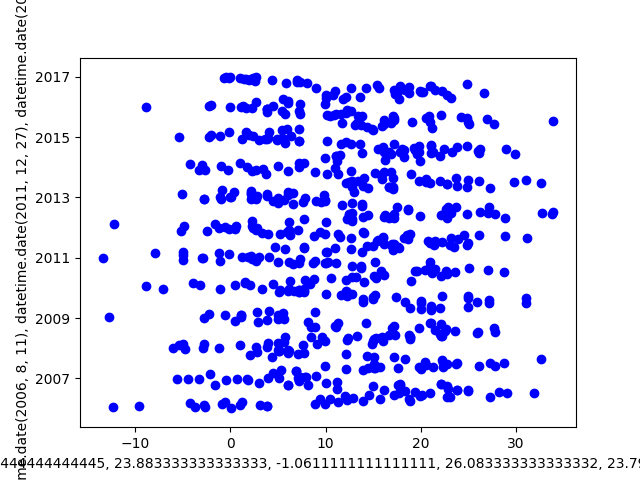
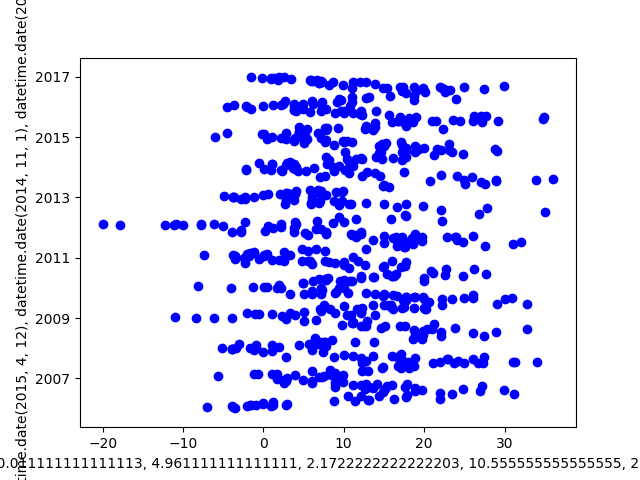
Works better but stil do not work :(

diff --git a/DataMining-Project2/DataMining_Project2.py b/DataMining-Project2/DataMining_Project2.py
@@ -22,13 +22,13 @@ random.shuffle(clusters_color)
 
 # Nice output :)
 def print_point(point, x, y):
-    print("(%.2f, %s)  -> id=%d,  \tid_of_closest_neighbor=%s,\tcluster=%s,\tdensity=%d,\tdistance_to_higher_density_point=%.4f" % \
-        (point[x], point[y], point["id"], str(point["id_of_point_with_higher_density"]), 
+    print("(%.2f, %s)  -> id=%d,  \tid_of_closest_neighbor=%s,\trefed_points=%s,\tcluster=%s,\tdensity=%d,\tdistance_to_higher_density_point=%.4f" % \
+        (point[x], point[y], point["id"], str(point["id_of_point_with_higher_density"]), str(point["refed_points"]), 
          str(point["cluster"]), point["density"], point["distance_to_higher_density_point"]))
 
 # Dinstance between two points
 def distance_to(point_i, point_j, x, y):
-    return math.sqrt((point_i[x] - point_j[x])**2 + (point_i[y] - point_j[y])**2) / 10000000
+    return math.sqrt((point_i[x] - point_j[x])**2 + (point_i[y] - point_j[y])**2) / 5000000
 
 # Function computing density for points
 # Density is computed as a number of points which is closed to current than cutoff_distance
@@ -56,7 +56,8 @@ def set_distance_to_higher_density_point(point_i, points):
         distance = distance_to(point_i, point_j, "Temperature", "Date Int")
         if distance < point_i["distance_to_higher_density_point"]:
             point_i["distance_to_higher_density_point"] = distance
-            point_i["id_of_point_with_higher_density"] = point_j["id"]
+            point_i["id_of_point_with_higher_density"] = int(point_j["id"])
+            point_j["refed_points"].append(point_i["id"])
 
     if point_i["distance_to_higher_density_point"] == float("inf"):
        point_i["distance_to_higher_density_point"] = 0
@@ -69,16 +70,20 @@ def set_distance_to_higher_density_point(point_i, points):
 
     return point_i
 
+def set_refed_points(point_i, points):
+    point_i["refed_points"] = [ p["id"] for p in points if p["id_of_point_with_higher_density"] == point_i["id"] ]
+
+    return point_i
+
 def compleat(point, labels):
     (id, point) = point
     new_point = { labels[i] : elem for i, elem in enumerate(point) if elem != "" }
-    new_point["id"] = id
 
     for key in new_point.keys():
         try:
             new_point[key] = float(new_point[key])
         except: pass
-
+        
     (D, T, Z) = new_point["Formatted Date"].split(" ")
     (year, month, day) = D.split("-")
     (hours, minutes, seconds) = T.split(":")
@@ -87,10 +92,13 @@ def compleat(point, labels):
     new_point["Time"] = new_point["Formated Date"].time()
     new_point["Date Int"] = time.mktime(new_point["Formated Date"].timetuple())
 
+    new_point["refed_points"] = []
     new_point["density"] = None
     new_point["distance_to_higher_density_point"] = None
     new_point["id_of_point_with_higher_density"] = None
     new_point["cluster"] = None
+    
+    new_point["id"] = int(id)
 
     return new_point
     
@@ -131,10 +139,16 @@ def get_and_calculate(sc, n, limit, cutoff_distance):
 
     points_with_distance_to_higher_density_point = points_with_local_density.map(
         lambda point: set_distance_to_higher_density_point(point, list_of_random_points))
+    list_of_points_with_distance_to_higher_density_point = [point for point in points_with_distance_to_higher_density_point.toLocalIterator()]
 
-    print("points with higher density seted")
+    print("points with higher density set")
+
+    points_with_refed_points = points_with_distance_to_higher_density_point.map(
+        lambda point: set_refed_points(point, list_of_points_with_distance_to_higher_density_point))
+
+    print("refed points set")
     
-    return points_with_distance_to_higher_density_point
+    return points_with_refed_points
 
 def plot_of_density_and_distance_to_higher_density_point(points, file_name):
     points = points.collect()
@@ -198,14 +212,33 @@ def assign_points_to_clusters(points):
         point["cluster"] = ref_point["cluster"]
 
         return point
+
+    def set_clusters(center, all_points):
+        for p in center["refed_points"]:
+            print(p, type(p))
+            ref_p = [ p for p in all_points if p["id"] == p ][0]
+            if ref_p["cluster"] == None:
+                ref_p["cluster"] = center["cluster"]
+                set_clusters(ref_p)
+                print(p)
     
-    print(points.filter(lambda point: point["cluster"] == None).count())
+    #print(points.filter(lambda point: point["cluster"] == None).count())
 
-    while None in [point["cluster"] for point in points.collect()]:
-        all_points = points.collect()
-        points = points.map(lambda point: set_cluster(point, all_points))
+    for center in [point for point in points.toLocalIterator() if point["cluster"] != None]:
+        set_clusters(center, points.toLocalIterator())
+    
+    for point in points_with_refed_points.toLocalIterator():
+        print_point(point, "Temperature", "Date Int")
 
-        print(points.filter(lambda point: point["cluster"] == None).count())
+    return points
+
+    #return points
+
+    #while None in [point["cluster"] for point in points.collect()]:
+    #    all_points = points.collect()
+    #    points = points.map(lambda point: set_cluster(point, all_points))
+
+    #    print(points.filter(lambda point: point["cluster"] == None).count())
 
 def assign_points_to_clusters_working(points):
         
@@ -236,6 +269,7 @@ def main(sc, clusters, n, limit, cutoff_distance):
     plot_of_density_and_distance_to_higher_density_point(points, 'density.png')
 
     points = assign_points_to_clusters(points)
+    #points.foreach(print)
     plot_clusters(points, "Temperature", "Date Int", 'clusters.png')  
 
     print("\n\nPoints:")
@@ -328,7 +362,7 @@ if __name__ == "__main__":
     conf = SparkConf().setAppName('DataMining_Project')
     sc = SparkContext(conf=conf)
 
-    main(sc, clusters=5, n=100, limit=10, cutoff_distance=1)
+    main(sc, clusters=12, n=100, limit=10, cutoff_distance=1)
 
     #complexity_in_time(sc, clusters=5, limit=10, cutoff_distance=1, p_min=20, p_max=1000, k=20)
     #complexity_in_clusters_number(sc, clusters_min=3, clusters_max=50, limit=10, cutoff_distance=1, p=300)
